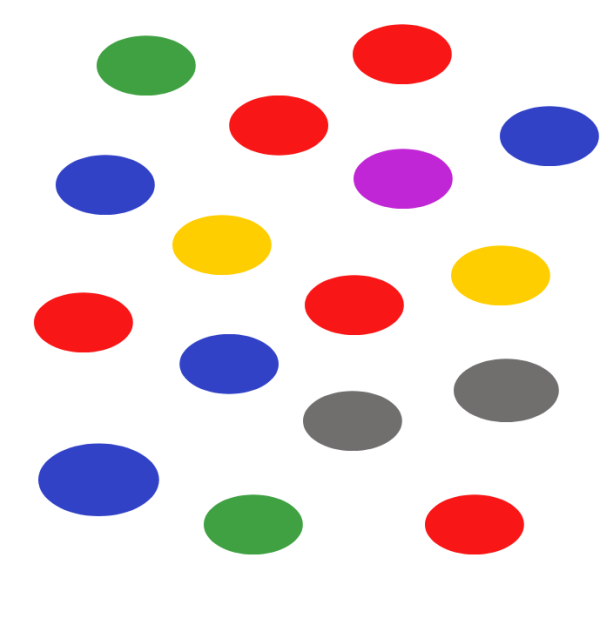
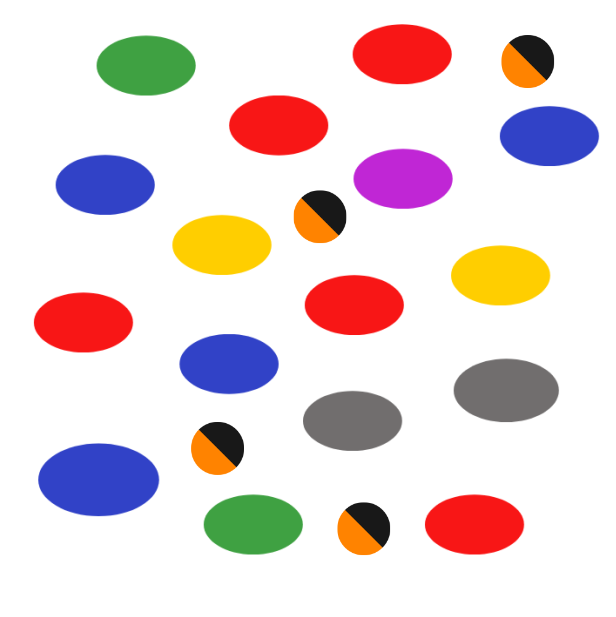
Get tooltip working and miscellaneous features (61% so far)

diff --git a/src/main/java/com/tommycondon/ca1/Controller.java b/src/main/java/com/tommycondon/ca1/Controller.java
@@ -140,46 +140,48 @@ public class Controller {
         int width = 100;
         int height = 65;
 
-        LinkedList<XYPoint> points = new LinkedList<>(); // storing x,y coords
+        ArrayList<XYPoint> points = new ArrayList<>(); // storing x,y coords
         LinkedList<Integer> tempRoots = new LinkedList<>(); // Create a temporary list to check if root is already given rectangle
         LinkedList<Rectangle> rectanglesList = new LinkedList<>();
 
 
         for(int root : roots) {
 
-         for (int i = 0; i < imageArray.length; i++)
-         {
-             if (imageArray[i] != -1)
-             {
-                 int foundRoot = UnionAndFind.find(imageArray,i);
+            for (int i = 0; i < imageArray.length; i++)
+            {
+                if (imageArray[i] != -1)
+                {
+                    int foundRoot = UnionAndFind.find(imageArray,i);
 
-                 if(foundRoot == root && !tempRoots.contains(root)){
-                     /* Source: https://stackoverflow.com/questions/47951361/finding-x-y-based-off-of-index
-                     * Converting index to X & Y coords
-                     * */
-                     leftx = i % (int) image.getWidth()-40;
-                     lefty = i / (int) image.getWidth();
+                    if(foundRoot == root && !tempRoots.contains(root)){
+                        /* Source: https://stackoverflow.com/questions/47951361/finding-x-y-based-off-of-index
+                         * Converting index to X & Y coords
+                         * */
+                        leftx = i % (int) image.getWidth()-40;
+                        lefty = i / (int) image.getWidth();
 
-                     XYPoint point = new XYPoint(leftx,lefty);
+                        XYPoint point = new XYPoint(leftx,lefty);
 
-                     points.add(point);
-                     tempRoots.add(root);
+                        points.add(point);
+                        tempRoots.add(root);
 
-                     Rectangle rectangle = new Rectangle(leftx,lefty,width,height);
-                     drawRectangles(rectangle,rectanglesList);
-                     double area = width*height;
-                     System.out.println("Area of pill: " + area);
-                     addPill(area,point,root,rectangle);
-                 }
+                        Rectangle rectangle = new Rectangle(leftx,lefty,width,height);
+                        drawRectangles(rectangle,rectanglesList);
+                        double area = width*height;
+                        System.out.println("Area of pill: " + area);
+                        addPill(area,point,root,rectangle);
+                        ((AnchorPane) imageView.getParent()).getChildren().add(new Text("Pill " + (tempRoots.size())));
+                    }
 
-             }
+                }
 
-         }
+            }
 
         }
 
         // Create label above pill, ordered fashion e.g. from top to bottom 1,2,3,4 etc
         //Collections.sort(tempRoots);
+
         String num = ""+rectanglesList.size();
         numSelected.setPromptText(num);
         System.out.println("Temp Roots:" + tempRoots);
@@ -194,8 +196,8 @@ public class Controller {
 
     public boolean addPill(double area, XYPoint point, int rootval, Rectangle rectangle) {
         Pill newPill = new Pill(area,point,rootval,rectangle);
-            listView.getItems().add(newPill);
-            return pills.add(newPill);
+        listView.getItems().add(newPill);
+        return pills.add(newPill);
     }
 
     private void onscreenLabelling(LinkedList<Integer> tempRoots, LinkedList<Rectangle> rectanglesList) {
@@ -238,7 +240,7 @@ public class Controller {
         boolean hue = (Math.abs(color.getHue() - color1.getHue()) < 0.1);
         boolean sat = (Math.abs(color.getSaturation() - color1.getSaturation()) < 0.1);
         boolean brightness = (Math.abs(color.getBrightness() - color1.getBrightness()) < 0.1);
-       // return (red && blue && green);
+        // return (red && blue && green);
         return sat && brightness && hue && green && red && blue;
     }
 
@@ -257,9 +259,9 @@ public class Controller {
 
 
     public void changeHue(ActionEvent mouseEvent) {
-            double hueVal = Double.parseDouble(hueSlider.getText());
-            colorAdjust.setHue(hueVal);
-            imageView.setEffect(colorAdjust);
+        double hueVal = Double.parseDouble(hueSlider.getText());
+        colorAdjust.setHue(hueVal);
+        imageView.setEffect(colorAdjust);
     }
 
     public void reset(){
@@ -271,6 +273,11 @@ public class Controller {
         anchorPane.getChildren().removeIf(component -> component instanceof Text);
         imageView.setEffect(null);
     }
-}
 
+    private boolean checkTwoTone(Color colorOfPixel) {
+        boolean twotone1 = colorOfPixel.getRed()==1.0 && colorOfPixel.getGreen()==0.5137255191802979 && colorOfPixel.getBlue()==0.0;
+        boolean twotone2 = colorOfPixel.getRed()==0.0941176488995552 && colorOfPixel.getGreen()==0.0941176488995552 && colorOfPixel.getBlue()==0.0941176488995552;
+        return twotone2 || twotone1;
+    }
+}
 

diff --git a/src/main/java/com/tommycondon/ca1/Pill.java b/src/main/java/com/tommycondon/ca1/Pill.java
@@ -16,7 +16,7 @@ public class Pill {
     }
 
     public String toString(){
-        return "Pill --> " + "Root Value: " + rootValue + ", ";
+        return "Pill --> [" + point.getX()+ "," + point.getY() + "] " + "Root Value: " + rootValue + ", ";
     }
 
     public double getArea() {

diff --git a/src/main/tests/ControllerTest.java b/src/main/tests/ControllerTest.java
@@ -88,5 +88,4 @@ public class ControllerTest {
 
 
 
-
 }
